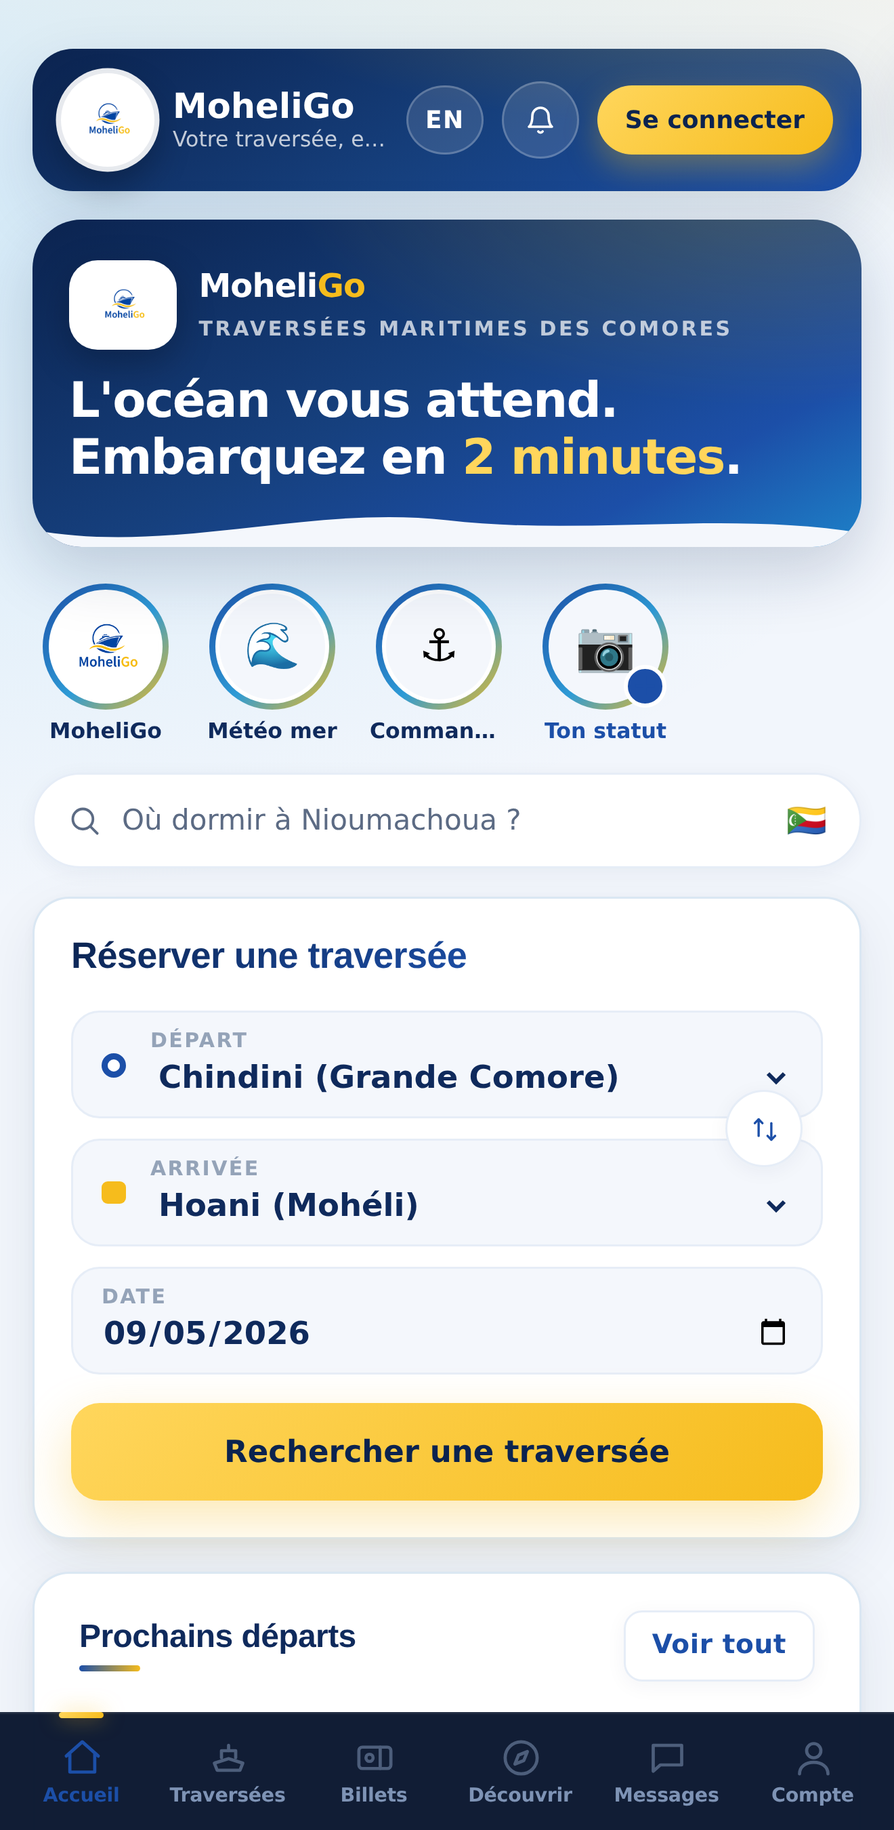
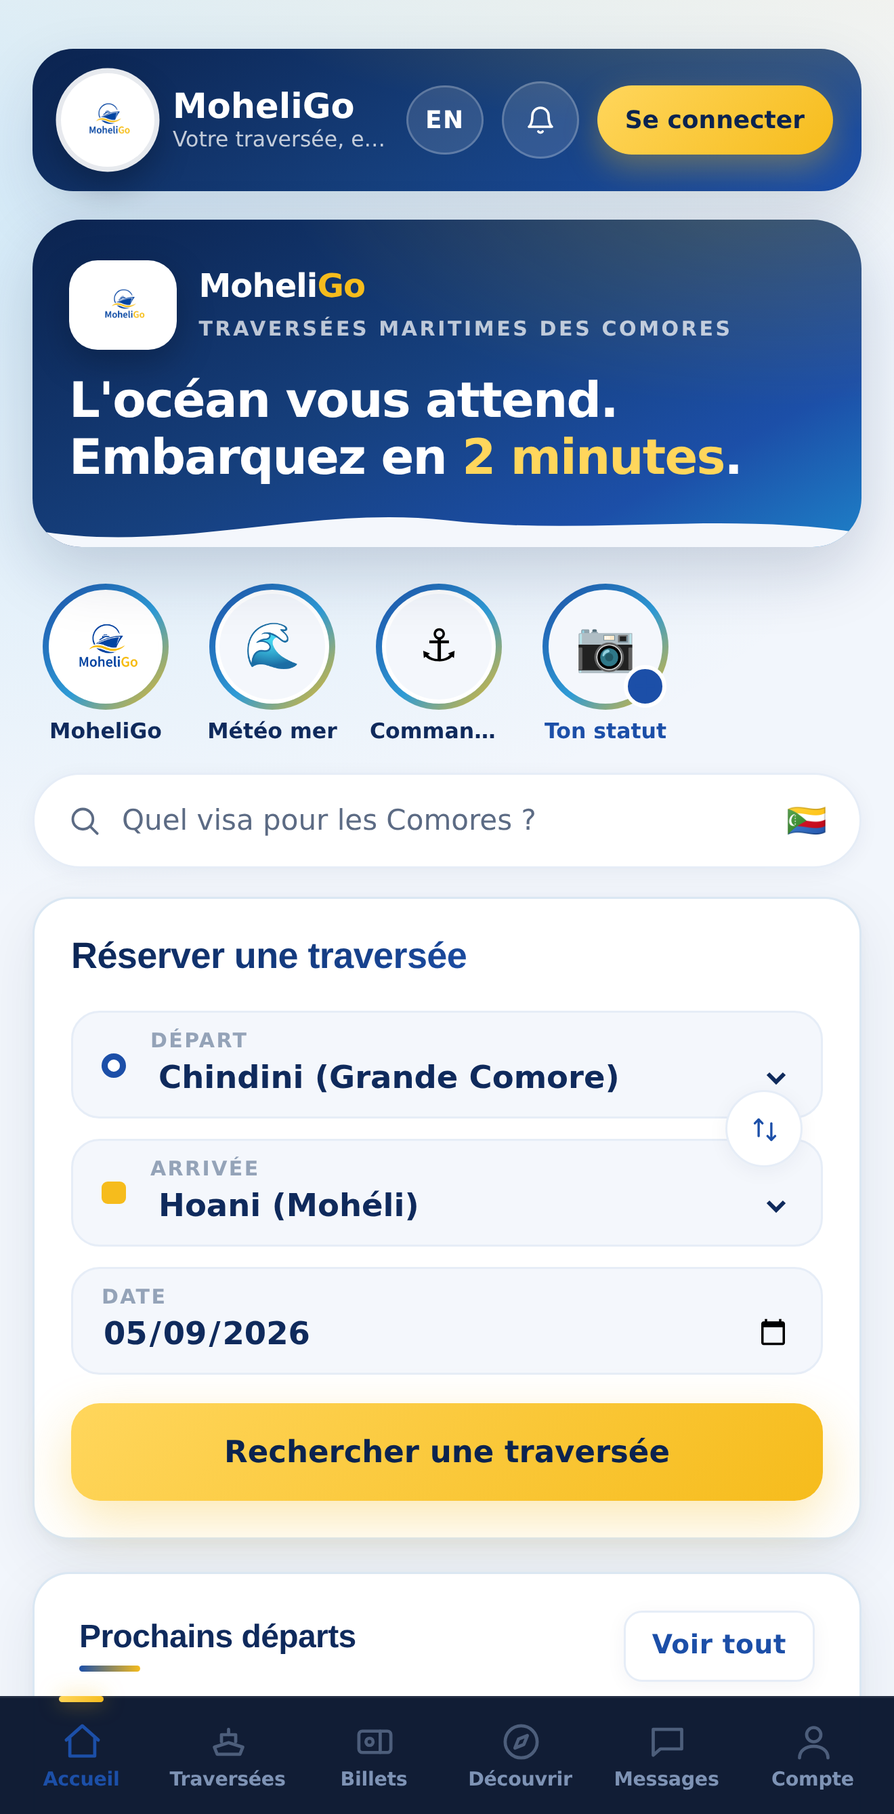
Variante « Réserve ta traversée », et la date du produit remise à l'endroit
Le flyer 40 est une VARIANTE du flyer 39, pas un remplacement : le patron a
choisi lui-même « L'ère de la digitalisation ». On fabrique l'autre registre
(le bénéfice direct) et il tranche en voyant les deux côte à côte.

Trois défauts trouvés en REGARDANT le rendu, aucun n'ayant levé d'erreur :

· le châssis du téléphone existait en CSS mais manquait dans le document —
  le visuel sortait à la bonne taille, avec un trou ;
· « MOHÉLI ↔ GRANDE COMORE » : nos woff2 sont des sous-ensembles latins, la
  flèche s'affichait « .. ». Plus aucun signe hors latin dans un texte ;
· le champ Date affichait 09/05/2026, soit le 5 septembre à l'américaine.
  Un lecteur comorien y lit 9 mai : une réservation pour une date passée.
  Le calendrier natif suit la langue de l'INTERFACE du navigateur, pas
  l'Accept-Language — il faut lancer Chromium avec --lang=fr-FR.

Rendu non répétable :
· capture.js passe de /tmp au dépôt, avec une date calculée (aujourd'hui + 7 j)
  au lieu d'une date figée qui périme ;
· le double pub/flyers/ecran-appli.png est supprimé, les flyers 39 et 40
  pointent la seule copie. Un double se corrige d'un côté et pas de l'autre.

Claude-Session: https://claude.ai/code/session_01BYJ87ihntXtVLQBUE1Jkoy

diff --git a/moheligo/pub/flyers/flyer40-reserve-fb.html b/moheligo/pub/flyers/flyer40-reserve-fb.html
@@ -1,0 +1,181 @@
+<!-- RÉSERVE TA TRAVERSÉE — la VARIANTE DIRECTE du flyer digitalisation.
+     Proposée le 29/08/2026 après une relecture extérieure : « pour quelqu'un qui
+     découvre MoheliGo en 2 secondes, le bénéfice concret pourrait être encore
+     plus évident ».
+
+     ⚖ CE FICHIER NE REMPLACE RIEN. Le patron avait choisi lui-même le titre
+     « L'ère de la digitalisation ». On ne change pas le titre du patron sur
+     l'avis d'un tiers : on fabrique la variante et il tranche en voyant les deux.
+     · flyer39 = registre INSTITUTIONNEL (« voici ce que devient le pays »)
+     · flyer40 = registre PRODUIT (« voici ce que tu peux faire, maintenant »)
+     Les deux sont légitimes ; ils ne parlent pas au même lecteur.
+
+     CE QUI CHANGE, ET POURQUOI
+     · le titre dit le BÉNÉFICE, pas la catégorie : un verbe à l'impératif ;
+     · les trois gestes deviennent trois ÉTAPES NUMÉROTÉES. Ce n'est pas du texte
+       en plus : c'est la même phrase, montrée comme une séquence. Le lecteur
+       compte 1-2-3 avant même de lire, et il sait que c'est court ;
+     · le téléphone gagne 30 % de surface. C'est LUI la preuve que le service
+       existe ; le texte ne fait que le commenter ;
+     · le numéro WhatsApp devient un vrai bouton.
+     ⚠ Pas de logo WhatsApp : je n'ai pas le fichier officiel, et redessiner une
+     marque déposée de mémoire est pire que ne pas la mettre. Une bulle de
+     message dit la même chose sans copier personne.
+
+     🔤 AUCUN SIGNE HORS LATIN DANS LE TEXTE. Le premier rendu portait
+     « MOHÉLI ↔ GRANDE COMORE » : nos woff2 sont des sous-ensembles latins, la
+     flèche n'y est pas et Chromium l'a remplacée par deux points. Un caractère
+     absent ne fait pas d'erreur, il fait un visuel faux. On s'en tient au point
+     médian, déjà utilisé partout ailleurs.
+
+     Rendu : node render.js flyer40-reserve-fb.html flyer-reserve-facebook.png 1080 1350 2 -->
+<meta charset="utf-8">
+<style>
+@font-face { font-family:'Archivo'; font-weight:900; src:url(fonts/Archivo-900-latin.woff2) format('woff2'); }
+@font-face { font-family:'Inter'; font-weight:500; src:url(fonts/Inter-500-latin.woff2) format('woff2'); }
+@font-face { font-family:'Inter'; font-weight:700; src:url(fonts/Inter-700-latin.woff2) format('woff2'); }
+* { margin:0; padding:0; box-sizing:border-box; }
+body { width:1080px; height:1350px; font-family:'Inter',sans-serif; -webkit-font-smoothing:antialiased; }
+
+.page { position:relative; width:1080px; height:1350px; overflow:hidden; background:#0F2A5C; }
+.eclat { position:absolute; inset:0; background:linear-gradient(116deg,
+  rgba(255,255,255,0) 40%, rgba(255,255,255,.085) 50%, rgba(255,255,255,0) 60%); }
+.halo { position:absolute; right:-140px; top:340px; width:760px; height:900px; z-index:1;
+  background:radial-gradient(ellipse at center, rgba(94,160,255,.30) 0%, rgba(15,42,92,0) 68%); }
+
+.coin { position:absolute; top:0; left:0; width:404px; height:172px; background:#fff;
+  clip-path:polygon(0 0, 100% 0, 78% 100%, 0 100%); z-index:6;
+  display:flex; align-items:center; gap:15px; padding:18px 0 28px 40px;
+  box-shadow:0 20px 48px rgba(4,12,40,.4); }
+.coin img { width:68px; height:68px; border-radius:16px; display:block; object-fit:contain; }
+.coin b { font-family:'Archivo',sans-serif; font-weight:900; font-size:29px; color:#0F2A5C;
+  letter-spacing:-.9px; line-height:1; display:block; }
+.coin b i { color:#F6BC1C; font-style:normal; }
+.coin small { display:block; font-size:9.5px; font-weight:700; letter-spacing:3.4px;
+  color:#5C6E8B; margin-top:5px; }
+
+.sur { position:absolute; left:76px; top:214px; z-index:5; font-size:14px;
+  font-weight:700; letter-spacing:3.4px; color:#F6BC1C; }
+
+/* pleine largeur : c'est ce qui permet au titre direct d'être GROS. Dans une
+   colonne de 568 px il serait tombé à 41 px, plus petit que l'institutionnel.
+   Le téléphone commence donc SOUS le titre (412 px), pas à côté. */
+.acc { position:absolute; left:76px; top:252px; width:928px; z-index:5;
+  font-family:'Archivo',sans-serif; font-weight:900; font-size:66px; line-height:1.02;
+  letter-spacing:-2.2px; color:#fff; }
+.acc span { display:block;
+  background:linear-gradient(178deg, #FFF3C4 4%, #F6BC1C 34%, #C98A05 62%, #FFDD73 96%);
+  -webkit-background-clip:text; -webkit-text-fill-color:transparent;
+  filter:drop-shadow(0 8px 22px rgba(150,100,4,.38)); }
+
+/* LES TROIS ÉTAPES. Colonne de 500 px : elle s'arrête à 576 px, le téléphone
+   commence à 634 px — 58 px d'air entre les deux, jamais de collision. */
+.etapes { position:absolute; left:76px; top:440px; width:500px; z-index:5; }
+.etapes .e { display:flex; align-items:center; gap:22px; margin-bottom:88px; }
+.etapes .e:last-child { margin-bottom:0; }
+.etapes .n { flex:none; width:54px; height:54px; border-radius:16px; background:#F6BC1C;
+  font-family:'Archivo',sans-serif; font-weight:900; font-size:30px; color:#0A1D42;
+  display:flex; align-items:center; justify-content:center;
+  box-shadow:0 10px 24px rgba(150,100,4,.34); }
+.etapes .l { font-size:27px; line-height:1.2; color:#fff; font-weight:700; }
+
+/* LE TÉLÉPHONE — 380 x 778, soit 30 % de surface de plus que sur le flyer 39.
+   Bas à 1190 px : la barre partenaire commence à 1212, ils ne se touchent pas.
+   Rapport respecté : la capture fait 1320 x 2700 (0,489), le châssis 0,4884. */
+.tel { position:absolute; right:66px; top:412px; width:380px; height:778px; z-index:4;
+  background:#08132C; border-radius:50px; padding:12px;
+  box-shadow:0 46px 92px rgba(2,8,26,.62), 0 0 0 2px rgba(255,255,255,.10); }
+.tel .ecran { width:100%; height:100%; border-radius:40px; overflow:hidden; background:#fff; }
+/* ⚠ `width:100%` seul laisse une bande blanche sous la barre de navigation :
+   la capture est plus étroite de proportion que le châssis. On remplit en
+   hauteur et on rogne par le bas, où il n'y a rien à perdre. */
+.tel .ecran img { width:100%; height:100%; object-fit:cover; object-position:50% 0; display:block; }
+.tel .encoche { position:absolute; left:50%; transform:translateX(-50%); top:21px;
+  width:122px; height:24px; border-radius:13px; background:#08132C; z-index:2; }
+
+/* 🟡 LE JAUNE = L'ACTION. C'est la règle proposée par le relecteur, et elle est
+   bonne — à une nuance près qu'il ne pouvait pas connaître : l'or est AUSSI
+   notre couleur de marque (203 emplois mesurés). On ne peut donc pas dire
+   « tout ce qui est or est une action ». Ce qu'on peut tenir, et qui suffit :
+   **toute action est en or.** */
+.wa { position:absolute; left:76px; top:876px; z-index:5;
+  display:inline-flex; align-items:center; gap:16px;
+  background:#F6BC1C; border-radius:18px; padding:20px 30px;
+  box-shadow:0 18px 40px rgba(150,100,4,.42); }
+.wa .bulle { width:38px; height:38px; flex:none; }
+.wa .t .p { font-size:11px; font-weight:700; letter-spacing:2.2px; color:#7A5A05; }
+.wa .t .n { font-family:'Archivo',sans-serif; font-weight:900; font-size:29px;
+  color:#0A1D42; letter-spacing:-.9px; margin-top:2px; }
+
+/* ⚠ MVola est déjà dit à l'étape 2 : on ne le répète pas ici. Une preuve qui
+   répète l'étape n'apporte rien et rallonge le seul bloc qu'on veut court. */
+.preuve { position:absolute; left:76px; top:1014px; width:500px; z-index:5;
+  font-size:20px; line-height:1.5; color:#9FB6D8; }
+.preuve b { color:#EAF1FF; font-weight:700; }
+
+.barre { position:absolute; left:76px; top:1212px; width:928px; height:96px; z-index:5;
+  background:#F6F9FF; border-radius:22px; display:flex; align-items:center;
+  padding:0 34px; gap:28px; box-shadow:0 22px 50px rgba(2,8,26,.42); }
+.barre .mg { display:flex; align-items:center; gap:12px; }
+.barre .mg img { width:44px; height:44px; object-fit:contain; }
+.barre .mg b { font-family:'Archivo',sans-serif; font-weight:900; font-size:25px;
+  color:#0F2A5C; letter-spacing:-.8px; }
+.barre .mg b i { color:#F6BC1C; font-style:normal; }
+.barre .sep { width:2px; height:44px; background:#D6E2F5; }
+.barre .kp img { height:34px; display:block; }
+.barre .web { margin-left:auto; font-family:'Archivo',sans-serif; font-weight:900;
+  font-size:28px; color:#0F2A5C; letter-spacing:-.8px; }
+
+.vague { position:absolute; left:0; bottom:0; width:1080px; height:74px; z-index:3; }
+</style>
+
+<div class="page">
+  <div class="eclat"></div>
+  <div class="halo"></div>
+
+  <div class="coin">
+    <img src="logo-emblem.png" alt="">
+    <div><b>Moheli<i>Go</i></b><small>TRAVERSÉES MARITIMES</small></div>
+  </div>
+
+  <div class="sur">MOHÉLI · GRANDE COMORE</div>
+  <div class="acc">RÉSERVE TA TRAVERSÉE<span>DEPUIS TON TÉLÉPHONE.</span></div>
+
+  <div class="etapes">
+    <div class="e"><div class="n">1</div><div class="l">Choisis ton départ.</div></div>
+    <div class="e"><div class="n">2</div><div class="l">Paie avec MVola.</div></div>
+    <div class="e"><div class="n">3</div><div class="l">Reçois ton billet.</div></div>
+  </div>
+
+  <div class="tel">
+    <div class="encoche"></div>
+    <div class="ecran"><img src="../demo/ecrans/accueil-reservation.png" alt=""></div>
+  </div>
+
+  <div class="wa">
+    <svg class="bulle" viewBox="0 0 40 40" fill="none">
+      <path d="M20 4C11.2 4 4 10.7 4 19c0 3.1 1 6 2.8 8.4L5 36l8.9-1.7A17.6 17.6 0 0 0 20 34c8.8 0 16-6.7 16-15S28.8 4 20 4Z"
+            fill="#0A1D42"/>
+      <path d="M14.6 13.4c-.3-.7-.6-.7-.9-.7h-.8c-.3 0-.8.1-1.2.6-.4.5-1.6 1.5-1.6 3.6s1.6 4.2 1.9 4.5c.2.3 3.1 4.9 7.7 6.7 3.8 1.5 4.6 1.2 5.4 1.1.8-.1 2.6-1 3-2 .4-1 .4-1.8.3-2-.1-.2-.4-.3-.9-.5-.4-.2-2.6-1.3-3-1.4-.4-.2-.7-.2-1 .2-.3.4-1.1 1.4-1.4 1.7-.2.3-.5.3-.9.1-.4-.2-1.9-.7-3.6-2.2-1.3-1.2-2.2-2.6-2.5-3-.2-.4 0-.7.2-.9l.7-.8c.2-.3.3-.5.4-.8.1-.3.1-.6 0-.8l-1.2-3Z"
+            fill="#F6BC1C"/>
+    </svg>
+    <div class="t">
+      <div class="p">UNE VRAIE PERSONNE RÉPOND</div>
+      <div class="n">WhatsApp +269 479 43 28</div>
+    </div>
+  </div>
+
+  <div class="preuve">Billet à <b>code QR</b>, il reste dans ton téléphone.
+    Et <b>chaque soir</b>, on publie la mer du lendemain.</div>
+
+  <div class="barre">
+    <div class="mg"><img src="logo-emblem.png" alt=""><b>Moheli<i>Go</i></b></div>
+    <div class="sep"></div>
+    <div class="kp"><img src="kartapay-logo.png" alt="kartaPay"></div>
+    <div class="web">moheligo.com</div>
+  </div>
+
+  <svg class="vague" viewBox="0 0 1080 74" preserveAspectRatio="none">
+    <path d="M0,34 C170,4 330,64 540,40 C750,16 910,58 1080,30 L1080,74 L0,74 Z" fill="#F6BC1C"/>
+  </svg>
+</div>

diff --git a/moheligo/pub/demo/ecrans/capture.js b/moheligo/pub/demo/ecrans/capture.js
@@ -1,0 +1,93 @@
+/* 📱 LA CAPTURE DE L'APPLICATION — le script, dans le dépôt.
+ *
+ * 29/08/2026. Il existait déjà, mais il ne vivait que dans /tmp : la marche à
+ * suivre était écrite et l'outil avait disparu. Une procédure qu'on ne peut pas
+ * rejouer n'est pas une procédure, c'est un souvenir. Il est ici maintenant.
+ *
+ *   cd moheligo/pub/demo/ecrans
+ *   npm install --no-save playwright@1.56.1     # une fois
+ *   node capture.js
+ *
+ * ⛔ ON NE PHOTOGRAPHIE PAS https://moheligo.com : le navigateur de ma session
+ * n'a aucun accès réseau (ERR_CONNECTION_RESET, revérifié le 28/08/2026). On
+ * rend `moheligo/index.html` en local — c'est le même code que la production.
+ *
+ * 📅 DEUX PIÈGES SUR LE CHAMP DATE, ET LE SECOND EST LE VRAI.
+ *
+ * 1. La date était écrite en dur. Une capture de produit périme : figée en mai,
+ *    elle montre en août une réservation pour une date passée, et le lecteur en
+ *    conclut que le service est mort. Ici elle est CALCULÉE — aujourd'hui + 7
+ *    jours — donc toujours crédible au moment du tirage.
+ *
+ * 2. 🚩 LA LANGUE DU NAVIGATEUR DÉCIDE DU FORMAT AFFICHÉ. Sans `locale`,
+ *    Chromium est en en-US et un <input type=date> au 5 septembre s'affiche
+ *    « 09/05/2026 ». Un lecteur comorien lit 9 MAI. La capture n'était pas
+ *    fausse, elle était ILLISIBLE — et c'est pire, parce que rien ne se voit.
+ *    `locale: 'fr-FR'` → « 05/09/2026 ». À vérifier À L'ŒIL après chaque
+ *    capture : c'est le genre de défaut qu'aucun contrôle automatique n'attrape.
+ */
+const { chromium } = require('playwright');
+const path = require('path');
+
+const APPLI = path.resolve(__dirname, '../../../index.html');
+const SORTIE = path.join(__dirname, 'accueil-reservation.png');
+
+// 440 px et pas 390 : à 390, « MoheliGo » et « Commandants » sont tronqués en
+// « Mohel… ». Densité 3 → 1320 x 2700 pixels réels, largement de quoi tenir
+// dans un châssis de téléphone sur un visuel 2160 x 2700.
+const LARGEUR = 440, HAUTEUR = 892, DENSITE = 3;
+
+const dans = (jours) => {
+  const d = new Date(Date.now() + jours * 86400000);
+  return d.toISOString().slice(0, 10);          // yyyy-mm-dd, ce qu'attend <input type=date>
+};
+
+(async () => {
+  // ⚠ `--lang` AU LANCEMENT, et pas seulement `locale` sur la page : le petit
+  // calendrier natif d'un <input type=date> suit la langue de l'INTERFACE du
+  // navigateur, pas l'Accept-Language du contexte. Avec `locale` seul, la date
+  // sortait encore en 09/05/2026. Mesuré le 29/08/2026.
+  const nav = await chromium.launch({
+    executablePath: '/opt/pw-browsers/chromium',
+    args: ['--lang=fr-FR'],
+    env: { ...process.env, LANG: 'fr_FR.UTF-8', LANGUAGE: 'fr_FR' },
+  });
+  const page = await nav.newPage({
+    viewport: { width: LARGEUR, height: HAUTEUR }, deviceScaleFactor: DENSITE,
+    isMobile: true, hasTouch: true,
+    locale: 'fr-FR', timezoneId: 'Indian/Comoro',   // sinon la date sort en MM/JJ/AAAA
+  });
+
+  // On coupe le bandeau « Reçois tes rappels » à la source plutôt que de courir
+  // après sa croix : il s'affiche seulement si cette clé est absente.
+  await page.addInitScript(() => {
+    try { localStorage.setItem('mg_push_asked', '1'); } catch (e) {}
+  });
+
+  await page.goto('file://' + APPLI, { waitUntil: 'domcontentloaded', timeout: 60000 });
+  await page.waitForTimeout(2500);
+
+  // Le premier écran est l'accueil « Bienvenue », pas la réservation.
+  const passer = page.locator('.ob-skip');
+  if (await passer.count() && await passer.first().isVisible()) {
+    await passer.first().click();
+    await page.waitForTimeout(900);
+  }
+
+  const date = dans(7);
+  await page.evaluate((d) => {
+    const b = document.getElementById('install-banner'); if (b) b.remove();
+    // les bulles flottantes (micro, chat) passent devant le formulaire
+    document.querySelectorAll('body > *').forEach((el) => {
+      const s = getComputedStyle(el);
+      if (s.position === 'fixed' && el.getBoundingClientRect().width < 200) el.style.display = 'none';
+    });
+    const champ = document.getElementById('f-date');
+    if (champ) { champ.value = d; champ.dispatchEvent(new Event('change', { bubbles: true })); }
+  }, date);
+
+  await page.waitForTimeout(1200);
+  await page.screenshot({ path: SORTIE });
+  console.log('OK ->', SORTIE, '— date affichée :', date);
+  await nav.close();
+})();

diff --git a/moheligo/pub/flyers/flyer39-digitalisation-fb.html b/moheligo/pub/flyers/flyer39-digitalisation-fb.html
@@ -140,7 +140,7 @@ body { width:1080px; height:1350px; font-family:'Inter',sans-serif; -webkit-font
 
   <div class="tel">
     <div class="encoche"></div>
-    <div class="ecran"><img src="ecran-appli.png" alt=""></div>
+    <div class="ecran"><img src="../demo/ecrans/accueil-reservation.png" alt=""></div>
   </div>
 
   <div class="confiance">

diff --git a/moheligo/pub/demo/ecrans/COMMENT-CES-ECRANS-SONT-FAITS.md b/moheligo/pub/demo/ecrans/COMMENT-CES-ECRANS-SONT-FAITS.md
@@ -7,13 +7,19 @@
 ## Comment refaire les captures
 
 ```
-cd /tmp && npm install --no-save playwright@1.56.1
-node /tmp/ecran.js          # ou le script ci-dessous
+cd moheligo/pub/demo/ecrans
+npm install --no-save playwright@1.56.1     # une fois
+node capture.js
 ```
 
-Le script ouvre `moheligo/index.html` dans Chromium au format d'un téléphone
-(412 × 892, densité 3 → 1320 × 2700 pixels réels), passe l'écran d'accueil,
-ferme les bandeaux, masque les bulles flottantes, remplit la date, et
+> 29/08/2026 — **le script est maintenant DANS le dépôt** (`capture.js`). Il n'a
+> longtemps vécu que dans `/tmp` : la marche à suivre était écrite, l'outil avait
+> disparu avec la session. Une procédure qu'on ne peut pas rejouer n'est pas une
+> procédure, c'est un souvenir.
+
+Il ouvre `moheligo/index.html` dans Chromium au format d'un téléphone
+(440 × 892, densité 3 → 1320 px de large), passe l'écran d'accueil, coupe le
+bandeau de rappels, masque les bulles flottantes, remplit la date, et
 photographie.
 
 ⛔ **NE PAS essayer de photographier https://moheligo.com** : le navigateur de
@@ -24,17 +30,40 @@ ma session n'a aucun accès réseau (`ERR_CONNECTION_RESET`, revérifié le
 
 | Ce qui abîmait la capture | Ce qu'on fait |
 |---|---|
-| Le bandeau « Reçois tes rappels » couvre le formulaire | on clique sa croix avant de photographier |
-| Les bulles flottantes (micro, chat) passent devant | on masque tout élément `position:fixed` étroit et bas |
+| Le bandeau « Reçois tes rappels » couvre le formulaire | on pose `mg_push_asked` dans le `localStorage` **avant** le chargement : il ne s'affiche jamais. Plus fiable que courir après sa croix |
+| Les bulles flottantes (micro, chat) passent devant | on masque tout élément `position:fixed` de moins de 200 px de large |
 | À 390 px, « MoheliGo » et « Commandants » sont tronqués (`Mohel…`) | viewport à **440 px** : plus rien n'est coupé |
-| Le champ date affiche `mm/dd/yyyy`, ça fait inachevé | on lui donne une vraie date avant la photo |
+| Le champ date affiche `mm/dd/yyyy`, ça fait inachevé | on lui donne une date **calculée** : aujourd'hui + 7 jours |
 | Le premier écran est l'accueil (« Bienvenue »), pas la réservation | on clique « Passer » |
+| 🚩 **La date sortait en `09/05/2026`** | voir ci-dessous — c'est le piège le plus coûteux du lot |
+
+### 🚩 La date affichée à l'envers — le défaut qui ne se voit pas
+
+La capture du 28/08 portait `09/05/2026` dans le champ Date. Lu par un client
+comorien, ça veut dire **9 mai** : une réservation pour une date passée, donc un
+service mort. En réalité c'était le **5 septembre**, écrit à l'américaine.
+
+Le calendrier natif d'un `<input type=date>` suit **la langue de l'interface du
+navigateur**, pas l'`Accept-Language` de la page. `locale: 'fr-FR'` sur le
+contexte Playwright ne suffit pas — mesuré, la date restait en MM/JJ. Il faut
+lancer le navigateur avec `--lang=fr-FR`.
+
+**La leçon, plus large que ce script :** une capture d'écran fausse ne fait
+lever aucune erreur. Le rendu réussit, le fichier fait le bon poids, le contrôle
+automatique dit ✅. Il n'y a que l'œil pour l'attraper — donc **on regarde le
+champ date après chaque capture**, avant de construire un visuel dessus.
 
 ## Ce qu'on a
 
 | Fichier | Ce qu'on y voit |
 |---|---|
 | `accueil-reservation.png` | l'accueil complet : en-tête, « L'océan vous attend, embarquez en 2 minutes », les quatre raccourcis, la recherche, et le formulaire de réservation Chindini → Hoani avec sa date |
+
+📌 **Ce fichier est la SEULE copie.** Les flyers 39 et 40 le pointent en
+`../demo/ecrans/accueil-reservation.png`. Il en existait un double dans
+`pub/flyers/ecran-appli.png` : supprimé le 29/08, parce qu'un double se corrige
+d'un côté et pas de l'autre — c'est exactement comme ça qu'un visuel se retrouve
+en retard sur sa source (déjà arrivé à quatre visuels le 29/08).
 
 ⚠ **Aucune donnée personnelle** n'apparaît : l'application n'est pas connectée,
 donc ni nom, ni numéro, ni référence de billet. C'est ce qui rend ces captures

diff --git a/moheligo/dossier/MEMOIRE.md b/moheligo/dossier/MEMOIRE.md
@@ -370,6 +370,34 @@ recharger ce sujet ici, ce n'est pas du marketing.
 
 ## 6. Journal des sessions
 
+- **29/08/2026 (🚩 UNE DATE À L'ENVERS SUR L'ÉCRAN DU PRODUIT — et deux défauts
+  que seul le rendu a montrés)** — en fabriquant la variante « Réserve ta
+  traversée » (flyer 40), trois choses sont apparues, toutes invisibles au code :
+  1. **Le téléphone n'était pas là.** Le bloc `.tel` existait dans le CSS, il
+     manquait dans le corps du document. Aucune erreur : Chromium rend une page
+     valide avec un trou. Le fichier sortait à la bonne taille, `controle.py`
+     disait ✅. **Un visuel n'est vérifié que quand on l'a REGARDÉ.**
+  2. **La flèche `↔` s'affichait « .. »** — nos woff2 sont des sous-ensembles
+     latins, le signe n'y est pas, et le remplacement est silencieux.
+     📌 Règle : **aucun caractère hors latin de base dans un texte de flyer.**
+  3. 🚩 **Le champ Date de l'application affichait `09/05/2026`.** Ce n'était pas
+     une date périmée : c'était le **5 septembre écrit à l'américaine**. Un
+     client comorien y lit *9 mai* — donc une réservation pour une date passée,
+     donc un service mort. Cause : le calendrier natif d'un `<input type=date>`
+     suit **la langue de l'interface du navigateur**, pas l'`Accept-Language` ;
+     `locale:'fr-FR'` ne suffit pas, il faut lancer Chromium avec `--lang=fr-FR`.
+  ✅ **Corrigé, et rendu non répétable** : le script de capture est passé de
+  `/tmp` au dépôt (`pub/demo/ecrans/capture.js`), la date y est **calculée**
+  (aujourd'hui + 7 j) au lieu d'être figée, et le double `pub/flyers/ecran-appli.png`
+  a été supprimé — les flyers 39 et 40 pointent désormais la seule copie.
+  Un double se corrige d'un côté et pas de l'autre : c'est la même cause que les
+  quatre visuels retrouvés en retard sur leur source ce matin.
+  📌 **LA LEÇON, PLUS LARGE QUE CE SCRIPT** : ces trois défauts ont en commun de
+  **ne lever aucune erreur**. Le rendu réussit, le poids est bon, le contrôle
+  automatique passe. Nos garde-fous savent dire « le fichier est là » ; ils ne
+  savent pas dire « l'image est juste ». **Tout visuel neuf se regarde à l'œil
+  avant d'être poussé — et le champ date se relit après chaque capture.**
+
 - **29/08/2026 (👁 L'ŒIL EXTÉRIEUR — à quoi il sert, et à quoi il ne sert pas)** —
   le patron fait relire la campagne par ChatGPT : 9/10, avec trois reproches.
   Deuxième fois (le 26/08, c'était 8/10 sur un flyer).
